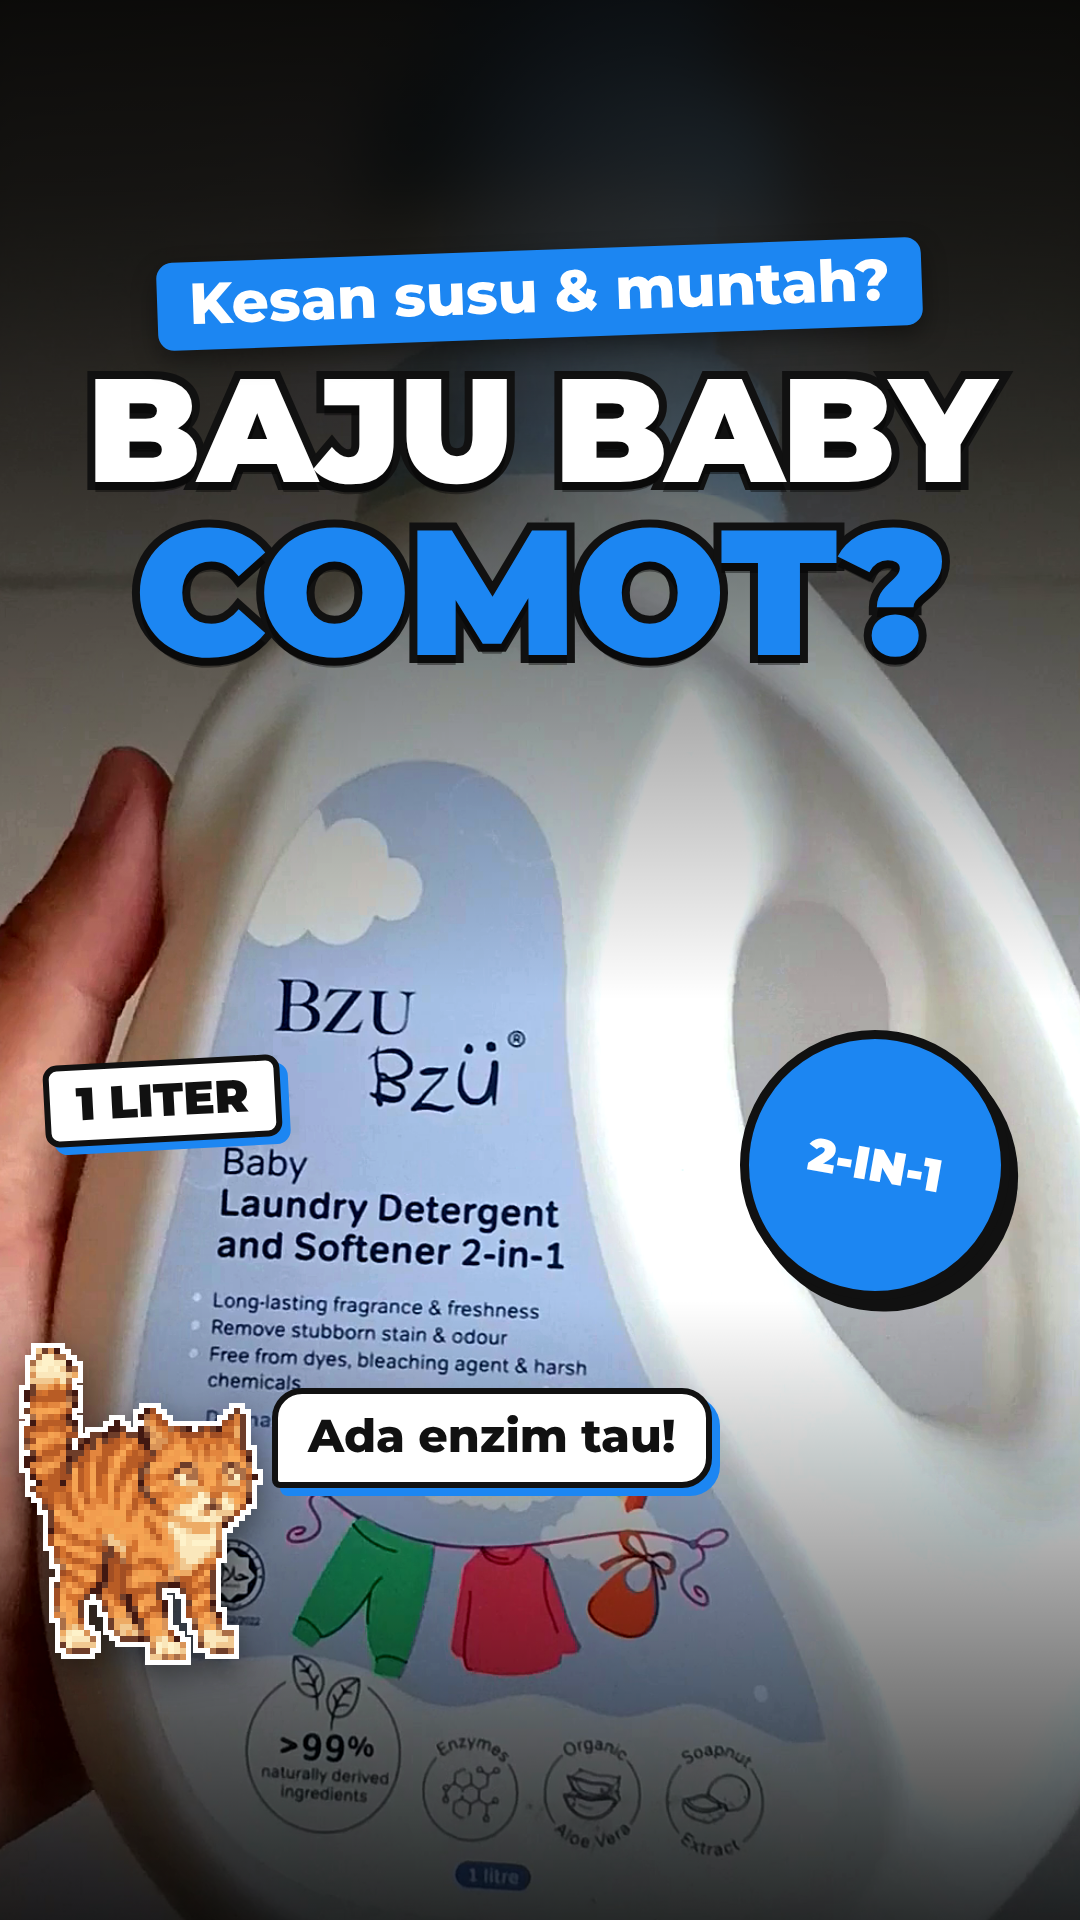
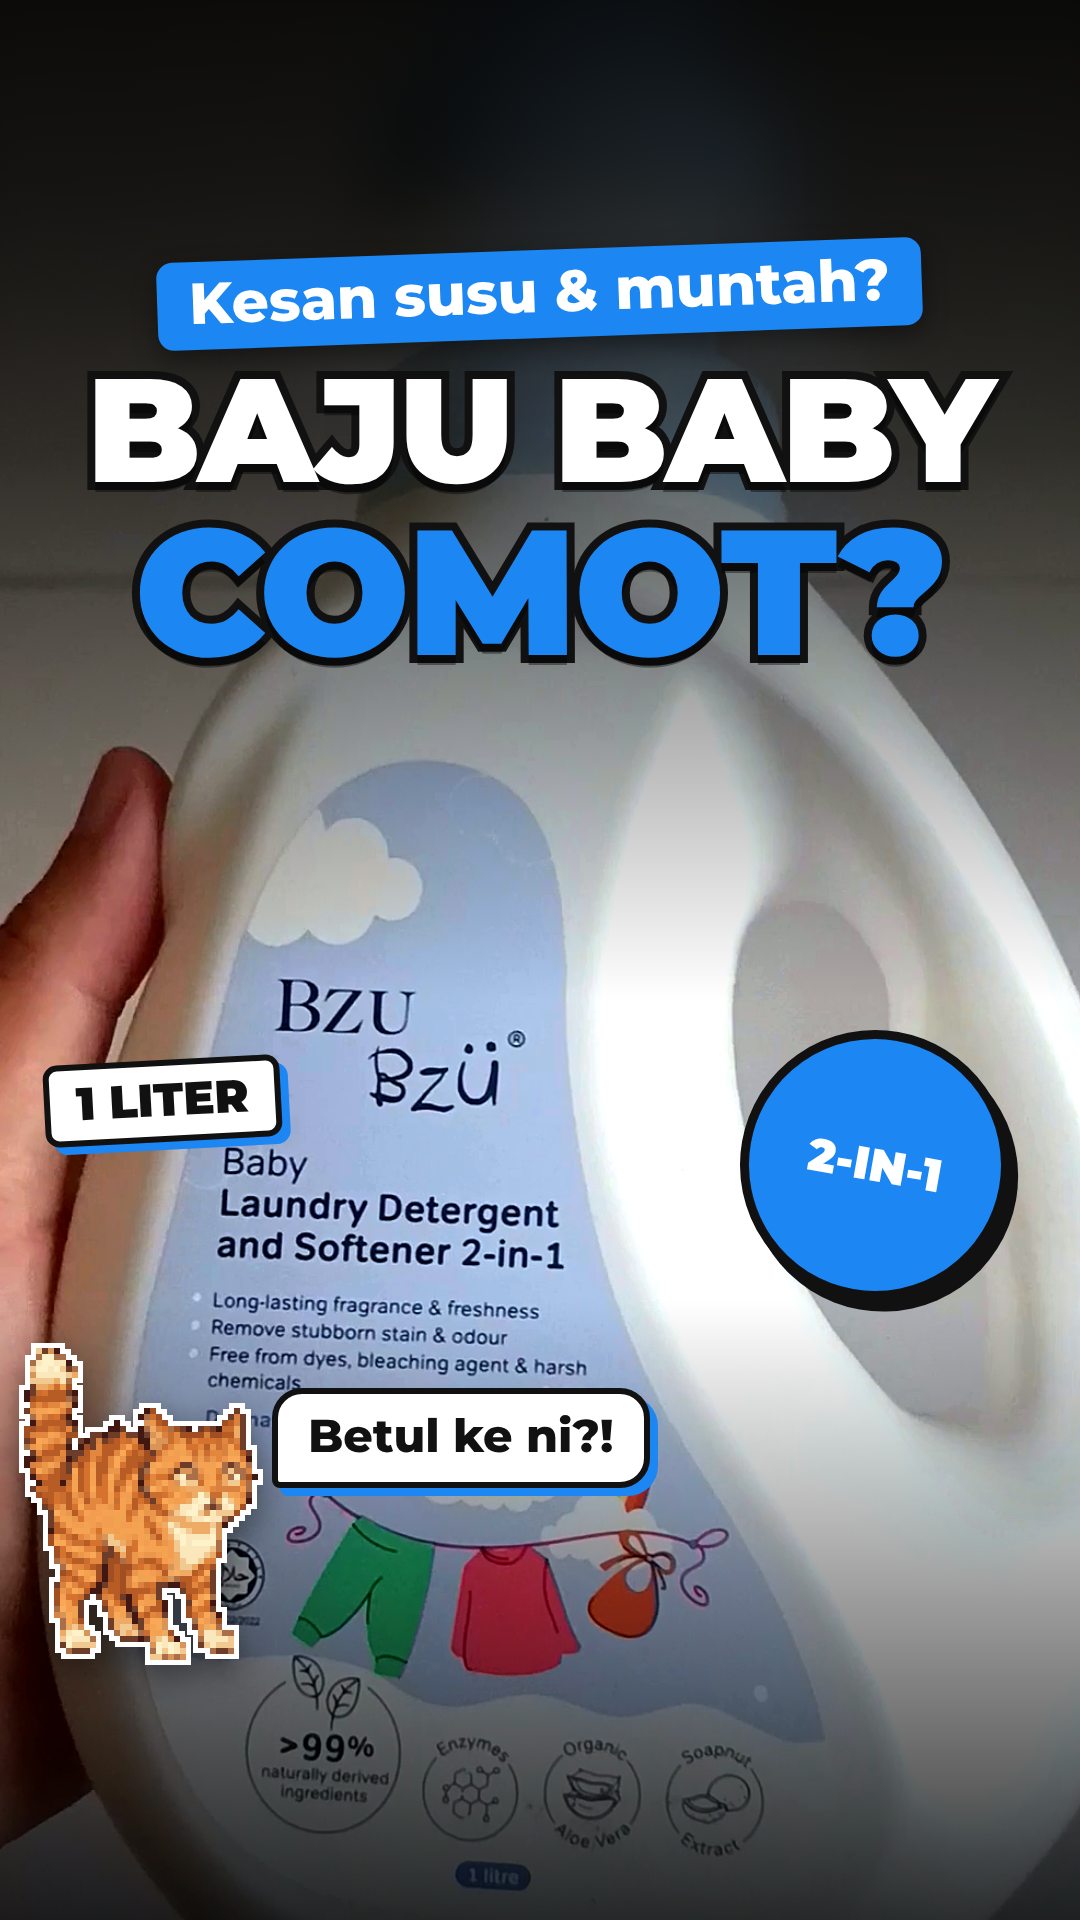
bzu-bzu-detergent-softener cover: Oyen says 'Betul ke ni?!'
Claude-Session: https://claude.ai/code/session_01FSFWWRvHpWTAnMm2R9b5o9

Changed region(s): [[0.3361, 0.7188, 0.6722, 0.7812], [0.275, 0.7188, 0.3056, 0.75]]

diff --git a/videos/bzu-bzu-detergent-softener/promo.py b/videos/bzu-bzu-detergent-softener/promo.py
@@ -17,7 +17,7 @@ PROMO = Promo(
     tags=("1 liter",),
     character="tabby",
     pose="Terkejut",
-    bubble="Ada enzim tau!",
+    bubble="Betul ke ni?!",
     caption=(
         "Baju baby kena susu & muntah? 😩 Cuci dengan BZU BZU Baby Laundry Detergent & Softener 2-in-1 👶\n"
         "Detergen + pelembut dalam satu. Sistem enzim untuk kesan susu, muntah & najis. Tanpa pewarna, peluntur & "
